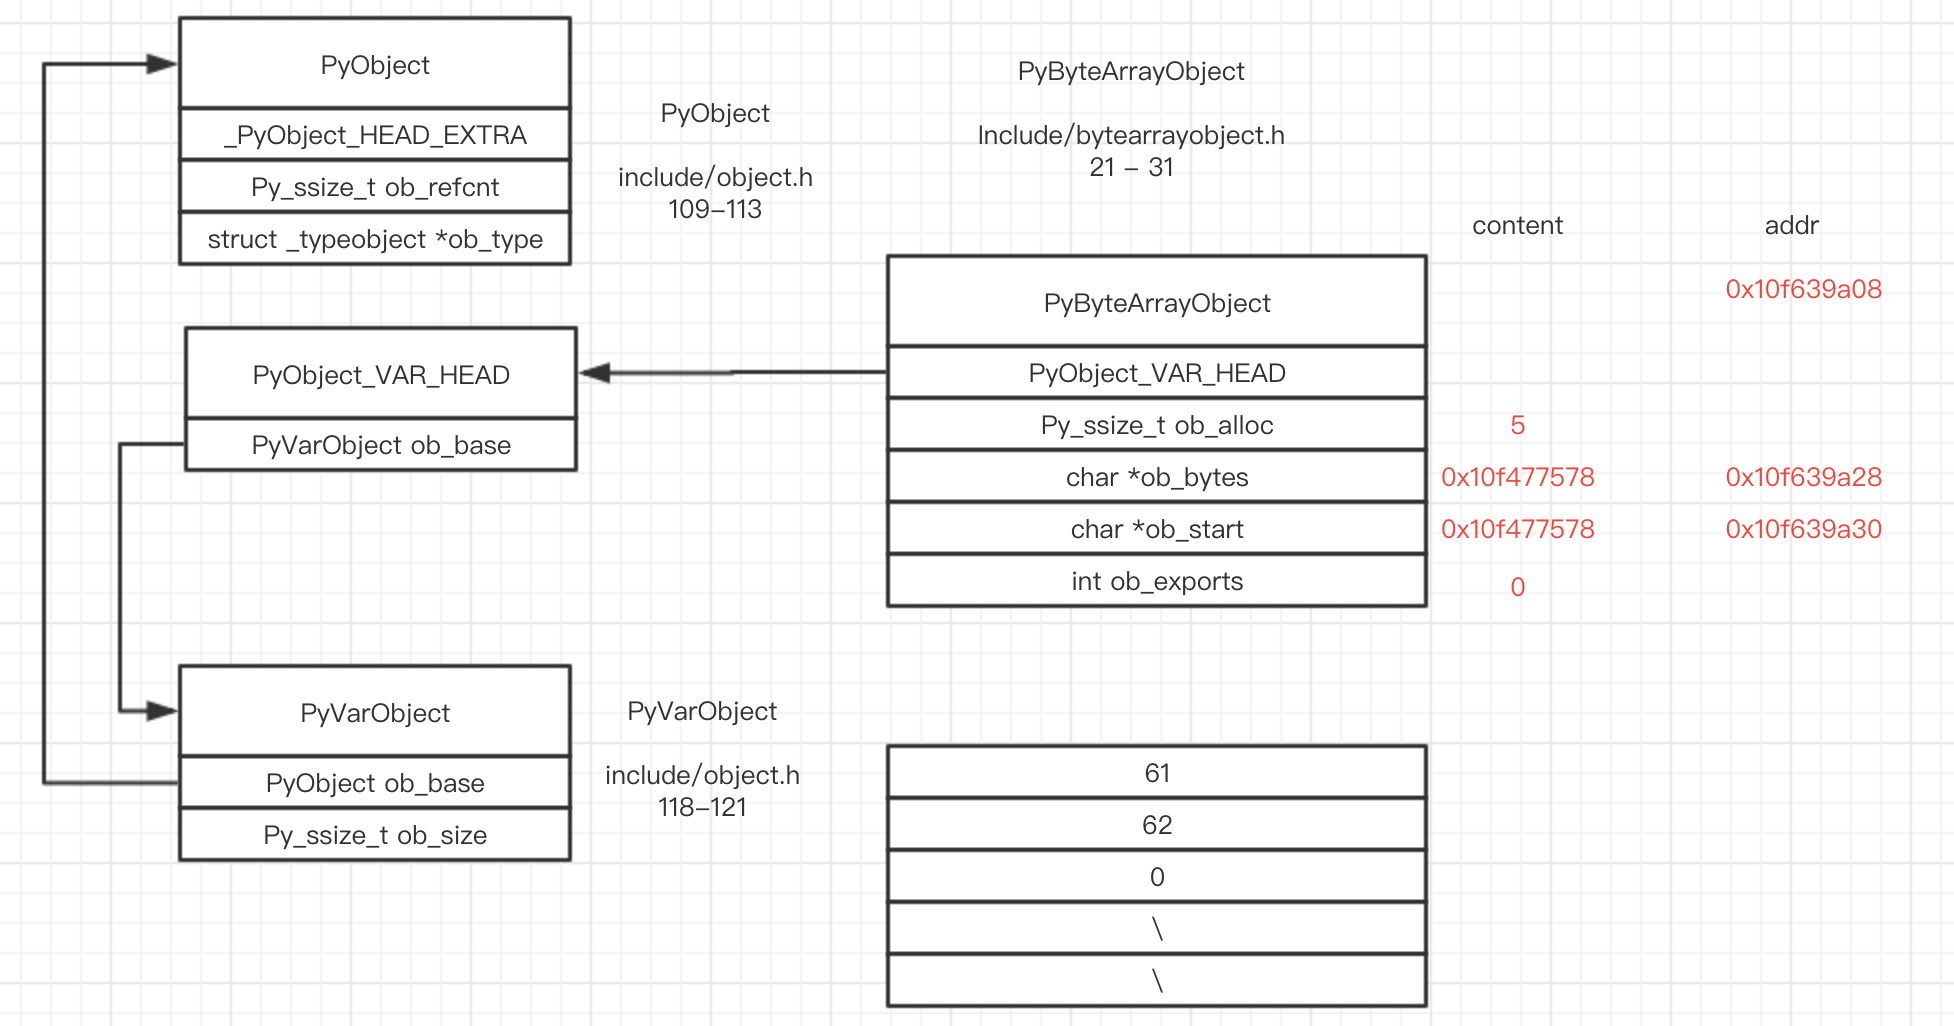
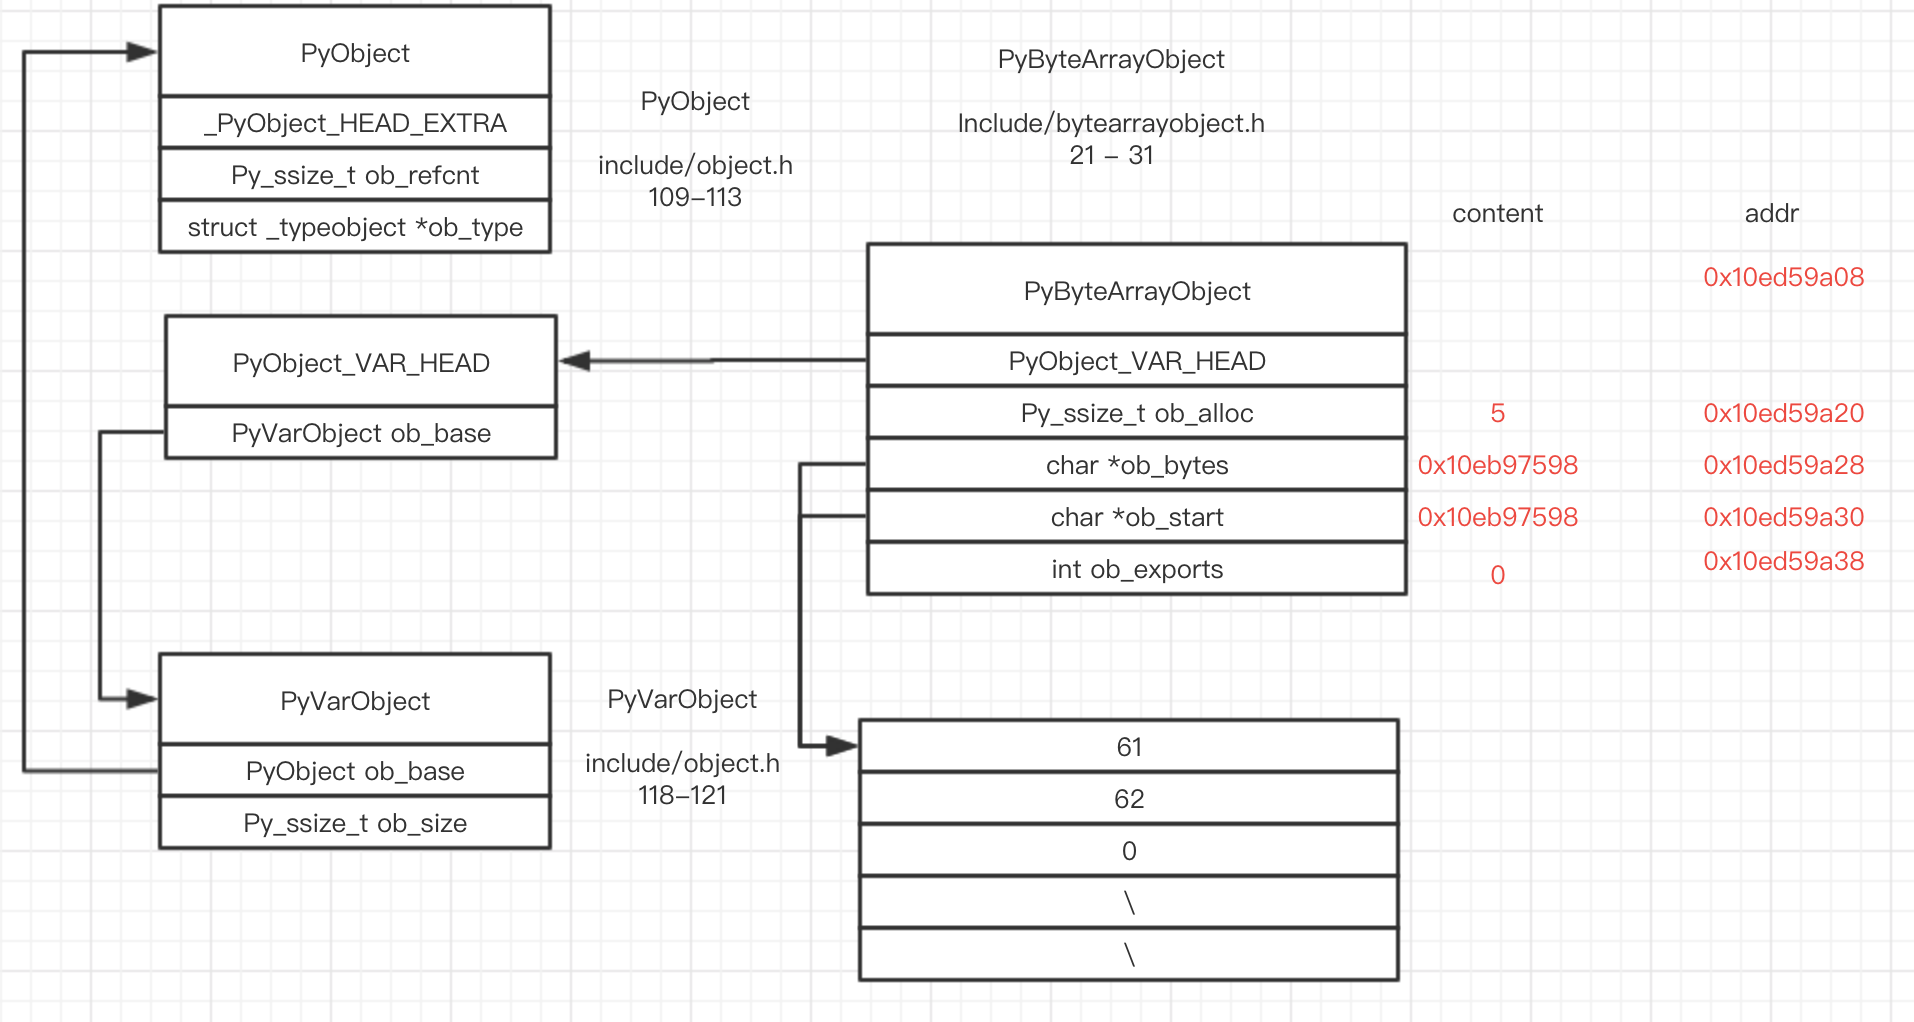
bytearray done

diff --git a/BasicObject/bytearray/bytearray_cn.md b/BasicObject/bytearray/bytearray_cn.md
@@ -1,35 +1,33 @@
 # bytearray
 
-### category
+### 目录
 
-* [related file](#related-file)
-* [memory layout](#memory-layout)
-* [example](#example)
+* [相关位置文件](#相关位置文件)
+* [内存构造](#内存构造)
+* [示例](#示例)
 	* [empty bytearray](#empty-bytearray)
-	* [ascii characters](#ascii-characters)
-	* [nonascii characters](#nonascii-characters)
-* [summary](#summary)
-	* [ob_shash](#ob_shash)
-	* [ob_size](#ob_size)
-	* [summary](#summary)
+	* [append](#append)
+	* [resize](#resize)
+	* [slice](#slice)
+* [ob_exports/buffer protocol](#ob_exports)
 
-#### related file
+#### 相关位置文件
 * cpython/Objects/bytearrayobject.c
 * cpython/Include/bytearrayobject.h
 * cpython/Objects/clinic/bytearrayobject.c.h
 
-#### memory layout
+####内存构造
 
-The **ob_alloc** field represent the real allocated size in bytes
+**ob_alloc** 表示了实际分配的字节大小
 
-**ob_bytes** is the physical begin address, and **ob_start** is the logical begin address
+**ob_bytes** 表示物理启始位置的地址,  **ob_start** 表示逻辑启始位置的地址(请往下看)
 
-**ob_exports** means how many other object are sharing this buffer, like reference count in a way
+**ob_exports** 表示有多少个对象正在共享这里面的字节空间, 某种程度上可以当成引用计数器
 
 ![memory layout](https://img-blog.csdnimg.cn/20190315152551189.png?x-oss-process=image/watermark,type_ZmFuZ3poZW5naGVpdGk,shadow_10,text_aHR0cHM6Ly9ibG9nLmNzZG4ubmV0L3FxXzMxNzIwMzI5,size_16,color_FFFFFF,t_70)
 
 
-#### example
+#### 示例
 
 ##### empty bytearray
 
@@ -37,7 +35,7 @@ The **ob_alloc** field represent the real allocated size in bytes
     >>> id(a)
     4353755656
     >>> b = bytearray(b"")
-    >>> id(b) # they are not shared
+    >>> id(b) # 他们id不同, 不是同一个对象
     4353755712
 
 
@@ -45,7 +43,7 @@ The **ob_alloc** field represent the real allocated size in bytes
 
 ##### append
 
-after append a charracter 'a', **ob_alloc** becomes 2, **ob_bytes** and **ob_start** all points to same address
+增加了一个字符 'a' 之后, **ob_alloc** 变成了 2, **ob_bytes** 和 **ob_start** 都指向同一个地址
 
 	a.append(ord('a'))
 
@@ -53,7 +51,90 @@ after append a charracter 'a', **ob_alloc** becomes 2, **ob_bytes** and **ob_sta
 
 ##### resize
 
+控制内部实际占用的字节空间的增长速率如代码所示
+
+        /*根据策略来控制增长幅度 */
+        if (size <= alloc * 1.125) {
+            /* 适度的调大alloc大小, 有点像list的内存分配 */
+            alloc = size + (size >> 3) + (size < 9 ? 3 : 6);
+        }
+        else {
+            /* 直接设置成需要的大小 */
+            alloc = size + 1;
+        }
+
+在这次append操作中, ob_alloc 值为 2, 并且要求的大小也为 2, 2 <= 2 * 1.125, 进入适度调整大小的策略分支, 新的大小变为 2 + (2 >> 3) + 3 ==> 5
+
 	a.append(ord('b'))
 
 ![resize](https://github.com/zpoint/Cpython-Internals/blob/master/BasicObject/bytearray/resize.png)
 
+##### slice
+
+	b = bytearray(b"abcdefghijk")
+
+![slice](https://github.com/zpoint/Cpython-Internals/blob/master/BasicObject/bytearray/slice.png)
+
+slice 操作之后, **ob_start** 指向真正的数组内容开始的位置, **ob_bytes** 仍然指向内存分配的开始位置
+
+	b[0:5] = [1,2]
+
+![after_slice](https://github.com/zpoint/Cpython-Internals/blob/master/BasicObject/bytearray/after_slice.png)
+
+只要 slice 操作是缩减 bytearray 大小的, 并且如下判断 **new_size < alloc / 2** 不成立, bytearray 就不会在对应的操作下对内存占用重新分配
+
+	b[2:6] = [3, 4]
+
+![after2_slice](https://github.com/zpoint/Cpython-Internals/blob/master/BasicObject/bytearray/after2_slice.png)
+
+现在, 在缩小的操作中, **new_size < alloc / 2** 成立, 重新分配被触发
+
+	b[0:3] = [7,8]
+
+![after3_slice](https://github.com/zpoint/Cpython-Internals/blob/master/BasicObject/bytearray/after3_slice.png)
+
+在 slice 操作中的增长策略和 append 是相同的, 他们都是共用一个函数来调整空间
+
+申请的大小是 6, 6 < 6 * 1.125, 所以新分配的大小为 6 + (6 >> 3) + 3 ==> 9
+
+	b[0:3] = [1,2,3,4]
+
+![after_grow_slice](https://github.com/zpoint/Cpython-Internals/blob/master/BasicObject/bytearray/after_grow_slice.png)
+
+##### ob_exports
+
+**ob_exports** 这里表示的值是什么意思呢? 你需要先理解 **buffer protocol** 的概念和设计初衷, 请参考[less-copies-in-python-with-the-buffer-protocol-and-memoryviews](https://eli.thegreenplace.net/2011/11/28/less-copies-in-python-with-the-buffer-protocol-and-memoryviews) 和 [PEP 3118](https://www.python.org/dev/peps/pep-3118/)
+
+	buf = bytearray(b"abcdefg")
+
+![exports](https://github.com/zpoint/Cpython-Internals/blob/master/BasicObject/bytearray/exports.png)
+
+**bytearray** 对象实现了 **buffer protocol** 的标准, **memoryview** 可以通过 **buffer protocol** 去获取对象中的实际的字节块, 而不是拷贝一份, **mybuf** 和 **buf** 就是共享同一个内存块
+
+**ob_exports** 的值变成了 1, 表示有多少个外部对象正在通过 **buffer protocol** 共享着内部的内存块
+
+	mybuf = memoryview(buf)
+    mybuf[1] = 3
+
+![exports_1](https://github.com/zpoint/Cpython-Internals/blob/master/BasicObject/bytearray/exports_1.png)
+
+**mybuf2** 也进行了同样的操作(ob_exports并未增加, 是因为 mybuf2 调用的是 mybuf 的 slice 操作, 增加 **ob_exports** 是通过调用 buf 的 **buffer protocol** 定义的函数完成的)
+
+	mybuf2 = mybuf[:4]
+    mybuf2[0] = 1
+
+![exports_2](https://github.com/zpoint/Cpython-Internals/blob/master/BasicObject/bytearray/exports_2.png)
+
+**ob_exports** 现在变成了 2
+
+	mybuf3 = memoryview(buf)
+
+![exports_3](https://github.com/zpoint/Cpython-Internals/blob/master/BasicObject/bytearray/exports_3.png)
+
+**ob_exports** 现在变成了 0
+
+	del mybuf
+    del mybuf2
+    del mybuf3
+
+![exports_4](https://github.com/zpoint/Cpython-Internals/blob/master/BasicObject/bytearray/exports_4.png)

diff --git a/BasicObject/bytearray/bytearray.md b/BasicObject/bytearray/bytearray.md
@@ -6,12 +6,10 @@
 * [memory layout](#memory-layout)
 * [example](#example)
 	* [empty bytearray](#empty-bytearray)
-	* [ascii characters](#ascii-characters)
-	* [nonascii characters](#nonascii-characters)
-* [summary](#summary)
-	* [ob_shash](#ob_shash)
-	* [ob_size](#ob_size)
-	* [summary](#summary)
+	* [append](#append)
+	* [resize](#resize)
+	* [slice](#slice)
+* [ob_exports/buffer protocol](#ob_exports)
 
 #### related file
 * cpython/Objects/bytearrayobject.c
@@ -53,7 +51,90 @@ after append a charracter 'a', **ob_alloc** becomes 2, **ob_bytes** and **ob_sta
 
 ##### resize
 
+The size grow pattern is shown in the code
+
+        /* Need growing, decide on a strategy */
+        if (size <= alloc * 1.125) {
+            /* Moderate upsize; overallocate similar to list_resize() */
+            alloc = size + (size >> 3) + (size < 9 ? 3 : 6);
+        }
+        else {
+            /* Major upsize; resize up to exact size */
+            alloc = size + 1;
+        }
+
+In appending, ob_alloc is 2, and request size is 2, 2 <= 2 * 1.125, so the new allocated size is 2 + (2 >> 3) + 3 ==> 5
+
 	a.append(ord('b'))
 
 ![resize](https://github.com/zpoint/Cpython-Internals/blob/master/BasicObject/bytearray/resize.png)
 
+##### slice
+
+	b = bytearray(b"abcdefghijk")
+
+![slice](https://github.com/zpoint/Cpython-Internals/blob/master/BasicObject/bytearray/slice.png)
+
+After the slice operation, **ob_start** points to the real beginning of the content, and **ob_bytes** still points to the begin address of the malloced block
+
+	b[0:5] = [1,2]
+
+![after_slice](https://github.com/zpoint/Cpython-Internals/blob/master/BasicObject/bytearray/after_slice.png)
+
+as long as the slice operation is going to shrink the bytearray, and the **new_size < alloc / 2** is False, the resize operation won't shrink the real mallcoed size
+
+	b[2:6] = [3, 4]
+
+![after2_slice](https://github.com/zpoint/Cpython-Internals/blob/master/BasicObject/bytearray/after2_slice.png)
+
+now, in the shrink operation, the **new_size < alloc / 2** is True, the resize operation will be triggered
+
+	b[0:3] = [7,8]
+
+![after3_slice](https://github.com/zpoint/Cpython-Internals/blob/master/BasicObject/bytearray/after3_slice.png)
+
+The grow pattern in slice operation is same as the append operation
+
+request size is 6, 6 < 6 * 1.125, so new allocated size is 6 + (6 >> 3) + 3 ==> 9
+
+	b[0:3] = [1,2,3,4]
+
+![after_grow_slice](https://github.com/zpoint/Cpython-Internals/blob/master/BasicObject/bytearray/after_grow_slice.png)
+
+##### ob_exports
+
+what's field **ob_exports** mean ? If you need detail, you can refer to [less-copies-in-python-with-the-buffer-protocol-and-memoryviews](https://eli.thegreenplace.net/2011/11/28/less-copies-in-python-with-the-buffer-protocol-and-memoryviews) and [PEP 3118](https://www.python.org/dev/peps/pep-3118/)
+
+	buf = bytearray(b"abcdefg")
+
+![exports](https://github.com/zpoint/Cpython-Internals/blob/master/BasicObject/bytearray/exports.png)
+
+the **bytearray** implements the **buffer protocol**, and **memoryview** are able to access the internal data block by the **buffer protocol**, **mybuf** and **buf** sharing the same internal block
+
+field **ob_exports** becomes 1, which indicate how many objects currently sharing the internal block via **buffer protocol**
+
+	mybuf = memoryview(buf)
+    mybuf[1] = 3
+
+![exports_1](https://github.com/zpoint/Cpython-Internals/blob/master/BasicObject/bytearray/exports_1.png)
+
+so does **mybuf2** object(**ob_exports** doesn't change because you need to call the c function defined by **buf** object via the **buffer protocol**, mybuf2 barely calls the slice function of mybuf)
+
+	mybuf2 = mybuf[:4]
+    mybuf2[0] = 1
+
+![exports_2](https://github.com/zpoint/Cpython-Internals/blob/master/BasicObject/bytearray/exports_2.png)
+
+**ob_exports** becomes 2
+
+	mybuf3 = memoryview(buf)
+
+![exports_3](https://github.com/zpoint/Cpython-Internals/blob/master/BasicObject/bytearray/exports_3.png)
+
+**ob_exports** becomes 0
+
+	del mybuf
+    del mybuf2
+    del mybuf3
+
+![exports_4](https://github.com/zpoint/Cpython-Internals/blob/master/BasicObject/bytearray/exports_4.png)

diff --git a/README_CN.md b/README_CN.md
@@ -1,9 +1,9 @@
 # Cpython Internals
 * [English](https://github.com/zpoint/Cpython-Internals/blob/master/README.md)
 
-这个仓库是笔者分析 [cpython](https://github.com/python/cpython) 源码的时候做的记录
+这个仓库是笔者分析 [cpython](https://github.com/python/cpython) 源码的时候做的记录/博客
 
-笔者将尝试尽可能的多的用 图像/源代码注释 讲清楚 cpython 底层实现的细节
+笔者将尝试尽可能的讲清楚 cpython 底层实现的细节
 
     # 基于 3.8.0a0 版本
     cd cpython

diff --git a/README.md b/README.md
@@ -1,9 +1,9 @@
 # Cpython Internals
 * [简体中文](https://github.com/zpoint/Cpython-Internals/blob/master/README_CN.md)
 
-This repository is my notes for [cpython](https://github.com/python/cpython) source code
+This repository is my notes/blog for [cpython](https://github.com/python/cpython) source code
 
-Trying to use graph representation/code comment to illustrate every detail of cpython implementation
+Trying to understand every detail of cpython implementation
 
     # based on version 3.8.0a0
     cd cpython
